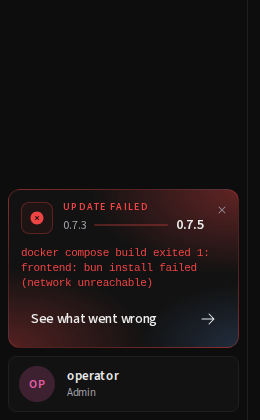
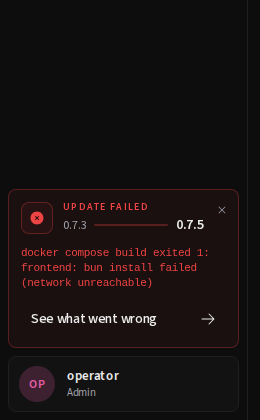
Draw the update notice and its dialog in the dashboard's own containers instead of the sign-in screen's light

diff --git a/frontend/src/components/update/update-notice.tsx b/frontend/src/components/update/update-notice.tsx
@@ -34,14 +34,14 @@ import { Spinner } from "@/components/state"
  * The version an operator wants to know casually is already beside the
  * wordmark at the top of the same rail.
  *
- * When it does speak it is the liveliest thing in the shell, on purpose. It
- * stands on arrival's light (`.update-art`, design system §16) — the one
- * element of the shell that does, because it is the one that announces
- * something arriving — and it draws the update as what it is: the installed
+ * When it does speak it is the account card's container — the same edge and
+ * ground as the card under it, tinted green or red only once a run has
+ * finished — and the life is in what it draws, not behind it: the installed
  * version wired to the newest with a pulse running toward it, and a band of
  * everything the releases between them bring, in the kinds' own colours.
  * While it installs, the beam runs round the card and the stage is lit; when
- * an install watched here succeeds, paper.
+ * an install watched here succeeds, paper. The washes of the sign-in screens
+ * were tried here and read as out of place in the shell.
  *
  * The notes are the Version page's (`/dashboard`), not a panel of their own:
  * that page already is the history, searchable, with the update in its
@@ -105,12 +105,11 @@ export function UpdateNotice({ collapsed }: { collapsed: boolean }) {
             <Link
               href="/dashboard"
               aria-label={label}
-              data-tone={tone}
               className={cn(
-                "update-art relative flex size-8 items-center justify-center rounded-lg border focus-ring transition-colors",
-                tone === "brand" && "border-rule-brand text-brand hover:bg-sidebar-accent",
-                tone === "success" && "border-rule-success text-success",
-                tone === "danger" && "border-rule-danger text-destructive",
+                "relative flex size-8 items-center justify-center rounded-lg focus-ring transition-colors",
+                tone === "brand" && "bg-plot-brand text-brand hover:bg-plot-brand-hover",
+                tone === "success" && "bg-plot-success text-success hover:bg-plot-success-hover",
+                tone === "danger" && "bg-plot-danger text-destructive hover:bg-plot-danger-hover",
               )}
             >
               {mode === "running" && <BorderBeam size={24} duration={2.5} />}
@@ -142,12 +141,11 @@ export function UpdateNotice({ collapsed }: { collapsed: boolean }) {
       {celebrate}
       <section
         aria-label="Dashboard update"
-        data-tone={tone}
         className={cn(
-          "update-art relative isolate min-w-0 animate-rise overflow-hidden rounded-xl border bg-card",
-          tone === "brand" && "border-rule-brand",
-          tone === "success" && "border-rule-success",
-          tone === "danger" && "border-rule-danger",
+          "relative isolate min-w-0 animate-rise overflow-hidden rounded-lg border",
+          tone === "brand" && "border-sidebar-border bg-card",
+          tone === "success" && "border-rule-success bg-wash-success",
+          tone === "danger" && "border-rule-danger bg-wash-danger",
         )}
       >
         {mode === "running" && <BorderBeam size={72} duration={4} />}

diff --git a/frontend/src/app/globals.css b/frontend/src/app/globals.css
@@ -987,42 +987,6 @@
     );
 }
 
-/* The same light, brought into the shell for the one thing in it that
- * announces something arriving: the sidebar's update notice, and the dialog
- * that installs the update. The main light comes from the top right, in the
- * notice's tone — the signal while a version is on its way, green once it has
- * landed, red if it did not — over the chart ramp's violet and blue from the
- * lower corners, so a 240px card carries the sign-in screen's colour at its
- * own scale. Nothing else in the shell or on a page takes it (§16). */
-.update-art {
-  --update-light: var(--signal);
-  --update-low: var(--chart-4);
-  background-image:
-    radial-gradient(
-      90% 75% at 100% 0%,
-      color-mix(in oklab, var(--update-light) 36%, transparent),
-      transparent 72%
-    ),
-    radial-gradient(
-      85% 70% at 0% 100%,
-      color-mix(in oklab, var(--update-low) 30%, transparent),
-      transparent 72%
-    ),
-    radial-gradient(
-      60% 55% at 100% 100%,
-      color-mix(in oklab, var(--chart-2) 18%, transparent),
-      transparent 72%
-    );
-}
-.update-art[data-tone="success"] {
-  --update-light: var(--success);
-  --update-low: var(--chart-5);
-}
-.update-art[data-tone="danger"] {
-  --update-light: var(--destructive);
-  --update-low: var(--destructive);
-}
-
 /* The ground a wiring picture is drawn on: the ER diagram's dot grid, as a
  * utility for a picture that is not a React Flow canvas. The dots take the
  * same `--grid-dot` as the diagram, and they fade out toward the edges so the

diff --git a/frontend/src/components/update/update-dialog.tsx b/frontend/src/components/update/update-dialog.tsx
@@ -23,8 +23,7 @@ import { Button } from "@/components/ui/button"
  * breaking notes and what the updater does was too much to read for a yes or
  * a no; all of that is on the Version page, where the notice's *View patch
  * notes* goes. What is left is the picture: the installed version wired to
- * the newest on arrival's light (`.update-art`, design system §16), the way
- * the sidebar notice draws it.
+ * the newest, the way the sidebar notice draws it, on the dialog's own ground.
  *
  * No phrase to type: the route is destructive, but installing an update is
  * not one of the unrecoverable acts that require one (security invariant 3).
@@ -76,7 +75,7 @@ export function UpdateDialog({
     >
       <div
         aria-hidden
-        className="update-art grid grid-cols-[auto_minmax(0,1fr)_auto] items-center gap-x-3 gap-y-2 px-5 py-6"
+        className="grid grid-cols-[auto_minmax(0,1fr)_auto] items-center gap-x-3 gap-y-2 px-5 py-6"
       >
         <VersionMark />
         <UpdateWire />

diff --git a/docs/internal/frontend/design-system.md b/docs/internal/frontend/design-system.md
@@ -3043,14 +3043,11 @@ these screens to have colour and life, and for the line grid that used to sit un
 the exception is the ground of those screens and nothing else — no page in either register takes a
 wash, and nothing on these screens takes a glow, a gradient fill or a pattern.
 
-**One element of the shell stands on the same light: the update notice.** The operator asked for the
-notice above the account card to be as alive as these screens, and the argument is the same one —
-it is the one thing in the shell that announces something arriving. `.update-art` is `.auth-art` at
-a 240px card's scale, its main light in the notice's tone: the signal while a version is on its way,
-`--success` once it has landed, `--destructive` if it did not (`data-tone`), over the violet and
-blue of the lower corners. The dialog that installs the update (`components/update/update-dialog.tsx`)
-opens its body on the same ground, behind the picture of the two versions. Nothing else takes it: not
-the account card beside it, not the Version page the notice leads to, which is a reading page.
+The update notice above the account card was tried on `.auth-art`'s light at card scale and taken
+back off at the operator's request: in the shell the washes read as the sign-in screen pasted into a
+dashboard. It is the account card's own container (`border-sidebar-border`, `bg-card`), tinted with
+`bg-wash-success` or `bg-wash-danger` only once a run has finished, and its life is the wire, the
+kind band and the beam (§11) rather than a ground. Arrival's light stays on arrival's screens.
 
 ## 17. Redesigning a flow page
 

diff --git a/docs/internal/frontend/shell-design.md b/docs/internal/frontend/shell-design.md
@@ -213,7 +213,8 @@ Deployments open the second group because shipping something is the reason most 
 
 Above the account card sits the update notice (`components/update/update-notice.tsx`), and only when
 there is something to say: a newer version, an update running, or one that finished and has not been
-dismissed. It is a card on arrival's light (`.update-art`, design system §16) with the dashboard's J,
+dismissed. It is the account card's container (the same edge and ground, tinted green or red only
+once a run has finished) with the dashboard's J,
 an eyebrow in the notice's tone, the installed version wired to the newest with a pulse running
 along the wire, the newest release's title and a band of what the releases bring by kind. An admin on
 an install that updates in place gets *Update now*, which opens the update's own dialog
